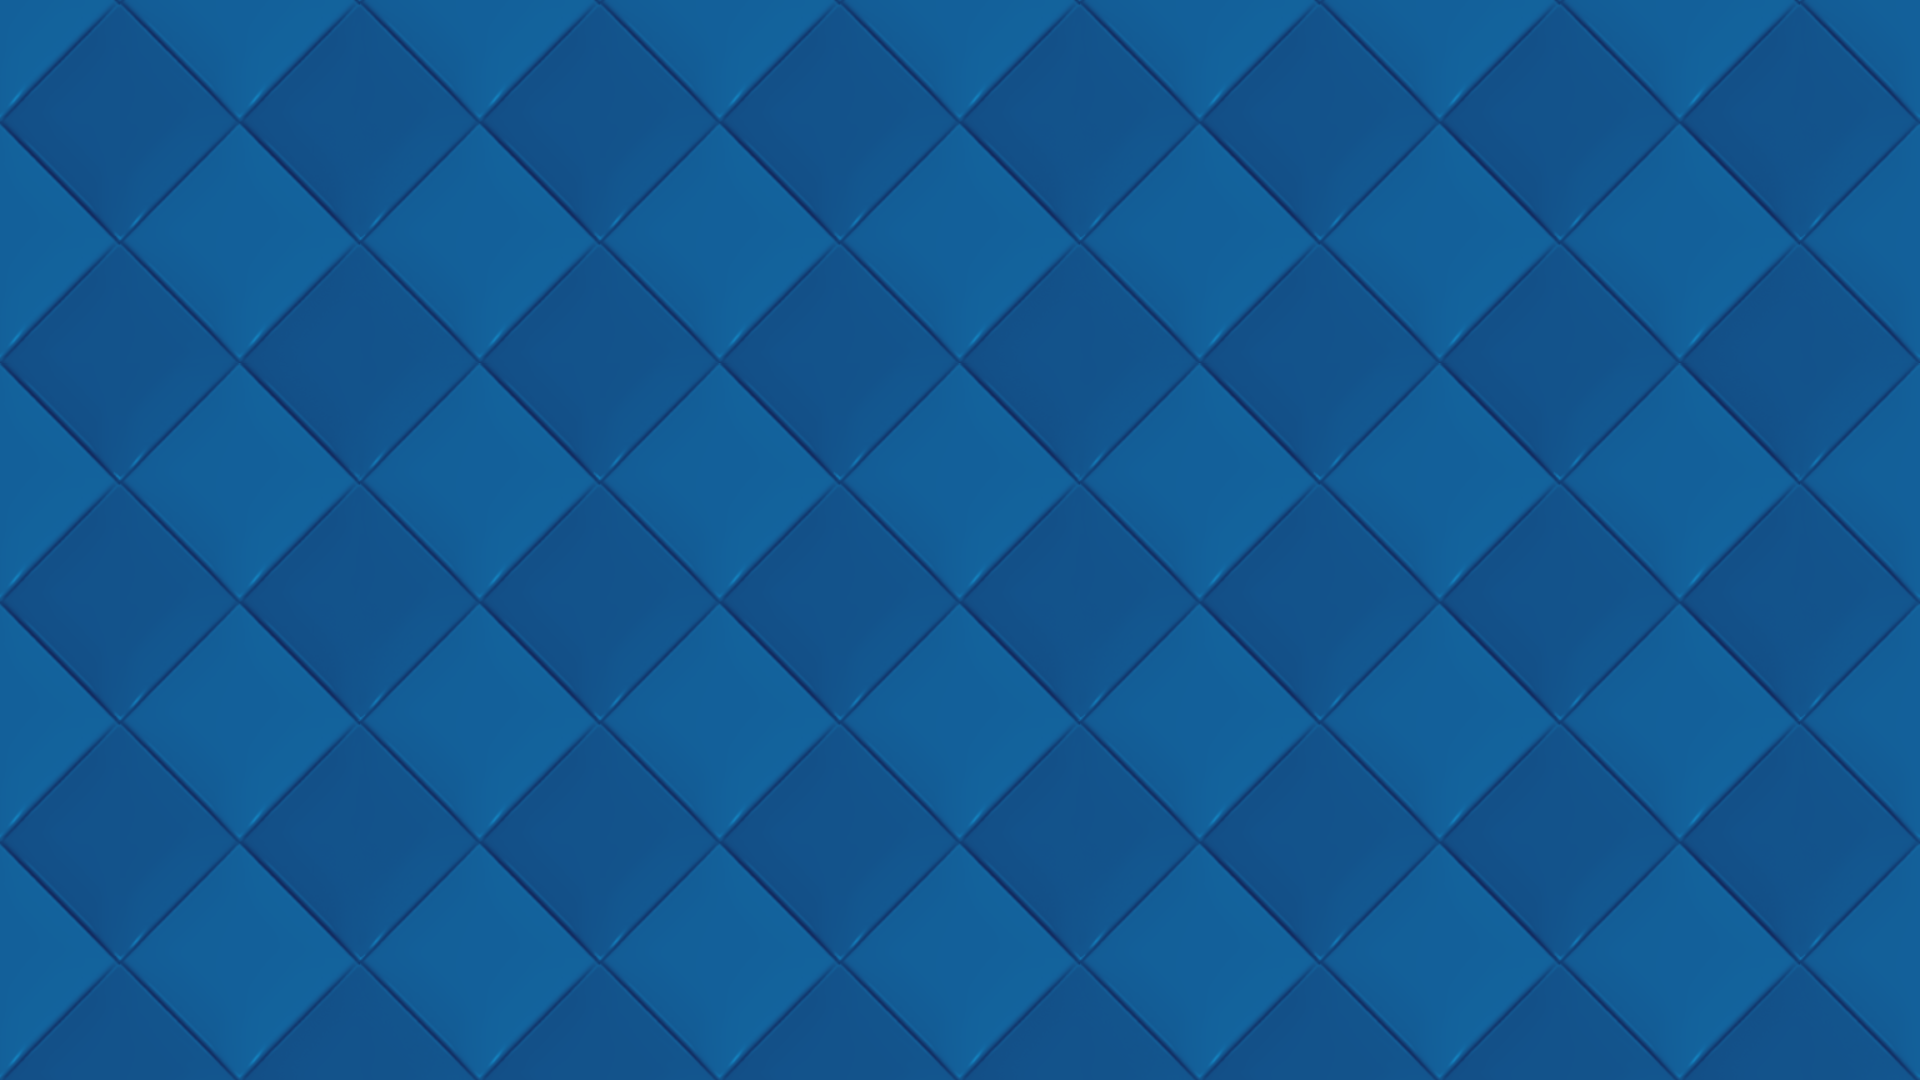
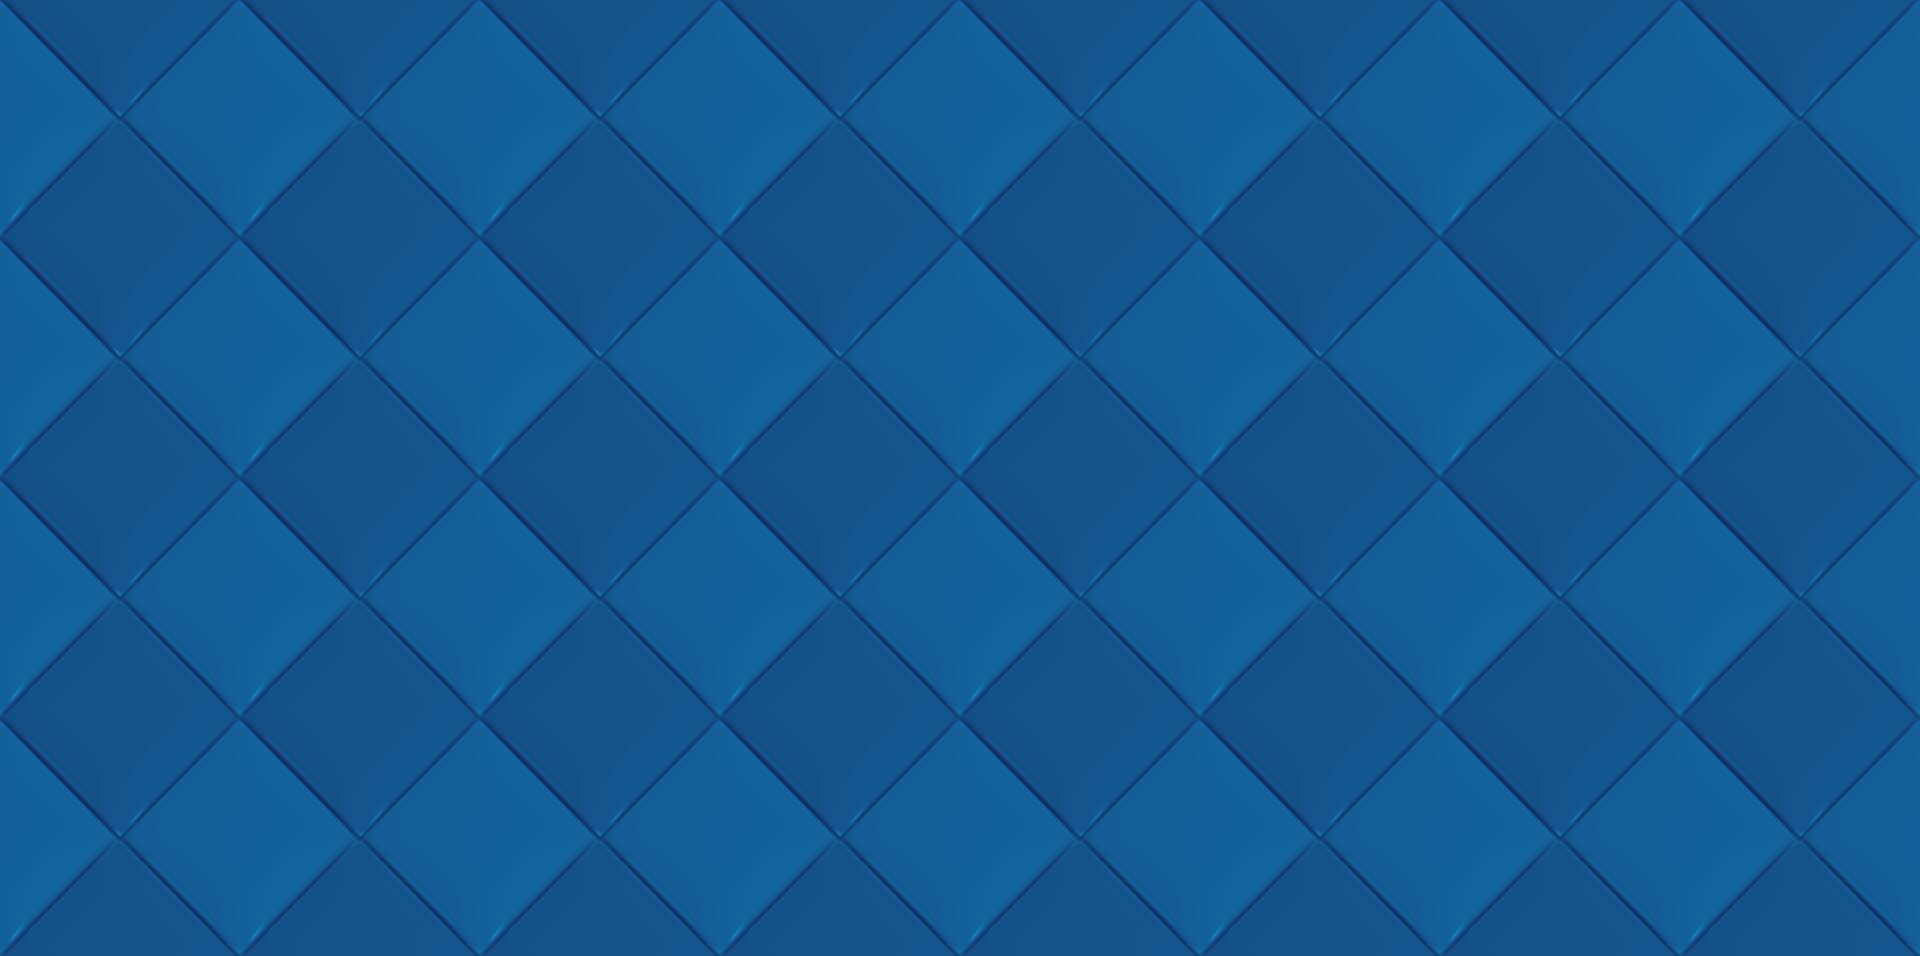
dernieres modifs

diff --git a/FrontEnd/myApp/src/app/cards/cards.component.html b/FrontEnd/myApp/src/app/cards/cards.component.html
@@ -1,5 +1,5 @@
 <div class="bg-image">
-    <section id="sorting" >
+    <section id="sorting">
         <section name="filter">
             <select name="type" (change)="onTypeChange($event)">
                 <option value="default" selected>Default</option>
@@ -15,42 +15,18 @@
             <option value="name">Name</option>
             <option value="elixir">Elixir</option>
             <option value="rarity">Rarity</option>
-        </select>        
+        </select>
     </section>
-    <section *ngIf="!elixir && (!type || type.toLowerCase() =='tower troop')">
-        <h2>Tower troops</h2>
-        <div class="cards-div">
-            <div class = "card-container" *ngFor="let card of getCardsByType('tower troop')">
-                <app-card [card]="card"></app-card>
-                <app-detail [card]="card"></app-detail>
+
+    <ng-container *ngFor="let cardType of ['tower troop', 'troop', 'building', 'spell']">
+        <section *ngIf="(!type || type.toLowerCase() == cardType) && getCardsByType(cardType).length != 0">
+            <h2>{{ cardType | titlecase }}s</h2>
+            <div class="cards-div">
+                <div class="card-container" *ngFor="let card of getCardsByType(cardType)">
+                    <app-card [card]="card"></app-card>
+                    <app-detail [card]="card"></app-detail>
+                </div>
             </div>
-        </div>
-    </section>
-    <section *ngIf="(!type || type.toLowerCase()=='troop') && getCardsByType('troop').length != 0">
-        <h2>Troops</h2>
-        <div class="cards-div">
-            <div class = "card-container" *ngFor="let card of getCardsByType('troop')">
-                <app-card [card]="card"></app-card>
-                <app-detail [card]="card"></app-detail>
-            </div>
-        </div>
-    </section>
-    <section *ngIf="(!type || type.toLowerCase() =='building') && getCardsByType('building').length != 0">
-        <h2>Buildings</h2>
-        <div class="cards-div">
-            <div class = "card-container" *ngFor="let card of getCardsByType('building')">
-                <app-card [card]="card"></app-card>
-                <app-detail [card]="card"></app-detail>
-            </div>
-        </div>
-    </section>
-    <section *ngIf="(!type || type.toLowerCase() =='spell') && getCardsByType('spell').length != 0">
-        <h2>Spells</h2>
-        <div class="cards-div">
-            <div class = "card-container" *ngFor="let card of getCardsByType('spell')">
-                <app-card [card]="card"></app-card>
-                <app-detail [card]="card"></app-detail>
-            </div>
-        </div>
-    </section>
+        </section>
+    </ng-container>
 </div>

diff --git a/FrontEnd/myApp/src/app/deck/deck.component.html b/FrontEnd/myApp/src/app/deck/deck.component.html
@@ -1,5 +1,4 @@
 <div class="bg-image">
-    
     <section>
         <h2>Deck</h2>
         <div class="deck">
@@ -25,26 +24,10 @@
             <option value="rarity">Rarity</option>
         </select>        
     </section>
-    <section>
-        <h2>Troops</h2>
+    <section *ngFor="let type of ['troop', 'building', 'spell']">
+        <h2>{{ type | titlecase }}s</h2>
         <div class="cards-div">
-            <div class = "card-container" *ngFor="let card of getCardsByType('troop')">
-                <app-card [card]="card" (click)="addToDeck(card)"></app-card>
-            </div>
-        </div>
-    </section>
-    <section>
-        <h2>Buildings</h2>
-        <div class="cards-div">
-            <div class = "card-container" *ngFor="let card of getCardsByType('building')">
-                <app-card [card]="card" (click)="addToDeck(card)"></app-card>
-            </div>
-        </div>
-    </section>
-    <section>
-        <h2>Spells</h2>
-        <div class="cards-div">
-            <div class = "card-container" *ngFor="let card of getCardsByType('spell')">
+            <div class = "card-container" *ngFor="let card of getCardsByType(type)">
                 <app-card [card]="card" (click)="addToDeck(card)"></app-card>
             </div>
         </div>

diff --git a/FrontEnd/myApp/src/app/deck/deck.component.ts b/FrontEnd/myApp/src/app/deck/deck.component.ts
@@ -35,7 +35,7 @@ export class DeckComponent {
       next: (cards: Card[]) => this._cards = cards,
       error: (error: any) => console.error('Error fetching cards:', error)
     });
-  }  
+  }
 
   get cards(): Card[] {
     return this._cards;
@@ -86,6 +86,10 @@ export class DeckComponent {
   }
 
   addToDeck(card: Card): void {
+    // si la page est "/cards" la fonction ne fait rien
+    if (this._route.snapshot.routeConfig && this._route.snapshot.routeConfig.path === 'cards') {
+      return;
+    }
     if (this.deck.length < 8 && !this._deck.includes(card)){
         const index = this._cards.findIndex(c => c.id === card.id);
         if (index !== -1) {

diff --git a/FrontEnd/myApp/src/app/cards/cards.component.css b/FrontEnd/myApp/src/app/cards/cards.component.css
@@ -167,8 +167,8 @@ p {
 
 #sorting {
     display: flex;
+    justify-content: space-between;
     align-items: center;
-    justify-content: flex-end;
 }
 
 select {
@@ -200,3 +200,4 @@ option {
     cursor: pointer;
     appearance: none;
 }
+

diff --git a/FrontEnd/myApp/src/styles.css b/FrontEnd/myApp/src/styles.css
@@ -1,4 +1,4 @@
 /* You can add global styles to this file, and also import other style files */
 body {
-    background-image: url("../src/assets/images/background2.jpg");
+    background-image: url("../src/assets/images/background3.png");
 }

diff --git a/FrontEnd/myApp/src/app/home/home.component.css b/FrontEnd/myApp/src/app/home/home.component.css
@@ -6,6 +6,8 @@
 .bg-image {
   background-image: url('../../assets/images/background_accueil.png');
   background-size: 100% 100%;
+  background-position: center;
+  background-repeat: no-repeat;
 }
 
 #back {
